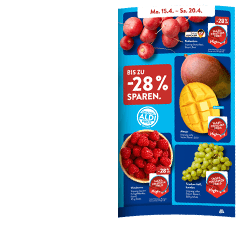
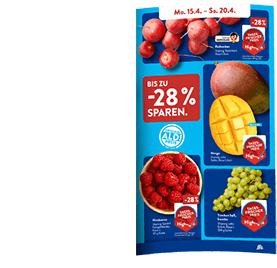
AMC feedback

Changed region(s): [[0.4746, 0.0, 1.0, 0.9868]]

diff --git a/preview/Aldi/Aldi_AMC_Round_2/300x250_non_food/main.js b/preview/Aldi/Aldi_AMC_Round_2/300x250_non_food/main.js
@@ -39,13 +39,13 @@ function getAnimation(){
     masterTL.to("#gradientRight", 1.8, {left:"95%", ease:Power3.easeInOut}, "start+=0.3")
     masterTL.to("#gradientRight", 0.3, {opacity:0}, "start+=1.1")
     
-    masterTL.from("#text1", 0.5, {x:300, ease:Sine.easeOut}, "start+=1");
-    masterTL.from("#highlightWrapper1", 0.5, {width:0, ease:Sine.easeInOut}, "start+=2");
-    masterTL.to(["#text1", "#highlightWrapper1"], 0.3, {scale:1.1, ease:Sine.easeInOut, repeat:1, yoyo:true}, "start+=2.7")
-    masterTL.from("#blueBg", 0.5, {opacity:0, ease:Sine.easeInOut}, "start+=4")
+    masterTL.from("#blueBg", 0.5, {opacity:0, ease:Sine.easeInOut}, "start+=3")
     
-    masterTL.from("#date", 0.5, {x:100, ease:Sine.easeInOut}, "start+=4.5")
-    masterTL.from("#product1", 0.5, {x:300, ease:Sine.easeInOut}, "start+=4.8")
+    masterTL.from("#date", 0.5, {x:100, ease:Sine.easeInOut}, "start+=3.5")
+    masterTL.from("#product1", 0.5, {x:300, ease:Sine.easeInOut}, "start+=3.8")
+    masterTL.from("#text1", 0.5, {x:300, ease:Sine.easeOut}, "start+=4.3");
+    masterTL.from("#highlightWrapper1", 0.5, {width:0, ease:Sine.easeInOut}, "start+=5");
+    masterTL.to(["#text1", "#highlightWrapper1"], 0.3, {scale:1.1, ease:Sine.easeInOut, repeat:1, yoyo:true}, "start+=6")
     
     masterTL.to("#product1", 0.5, {x:-300, ease:Sine.easeInOut}, "start+=8")
     masterTL.to("#date", 0.5, {x:100, ease:Sine.easeInOut}, "start+=8")
@@ -55,6 +55,7 @@ function getAnimation(){
     masterTL.from("#date2", 0.5, {x:100, ease:Sine.easeInOut}, "start+=8.3")
     masterTL.from("#text2", 0.5, {x:300, ease:Sine.easeOut}, "start+=8.3");
     masterTL.from("#highlightWrapper2", 0.5, {width:0, ease:Sine.easeInOut}, "start+=9");
+    masterTL.to(["#text2", "#highlightWrapper2"], 0.3, {scale:1.1, ease:Sine.easeInOut, repeat:1, yoyo:true}, "start+=10")
 
     masterTL.to(["#product2", "#text2", "#highlightWrapper2", "#date", "#date2"], 0.5, {opacity:0, ease:Sine.easeInOut}, "start+=12.5")
 

diff --git a/preview/Aldi/Aldi_AMC_Round_2/300x250_non_food/style.css b/preview/Aldi/Aldi_AMC_Round_2/300x250_non_food/style.css
@@ -76,10 +76,10 @@ img, div, object{
 }
 
 #flyerWrapper{
-    width: 118px;
-    height: 114px;
-    top: 33px;
-    left: 139px;
+    width: 141px;
+    height: 134px;
+    top: 22px;
+    left: 131px;
     transform: rotate(12deg);
     overflow: hidden;
 }
